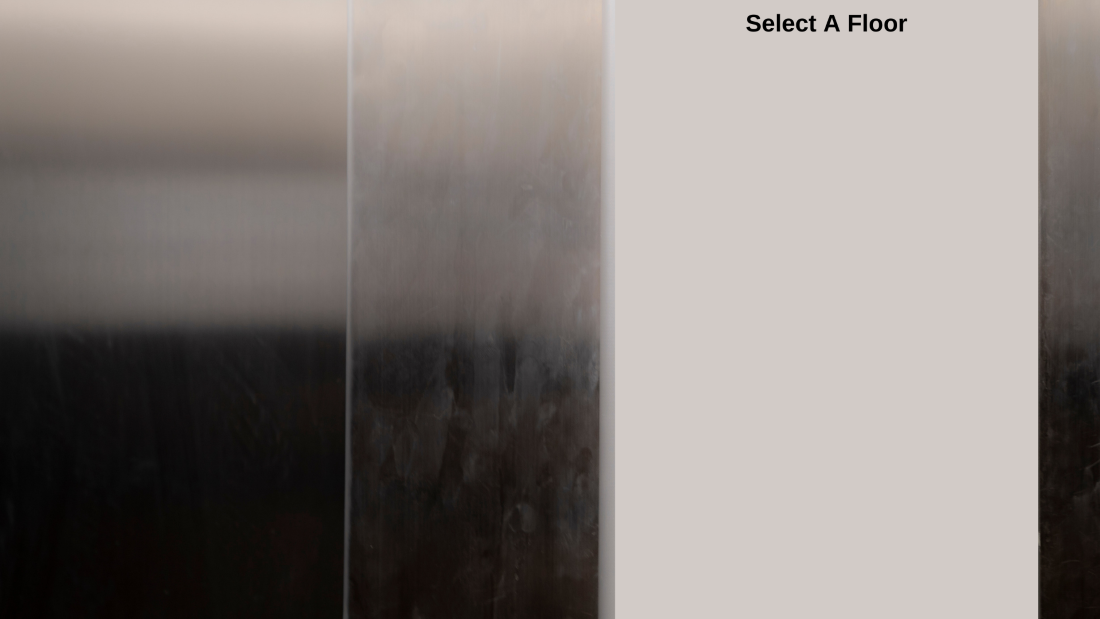
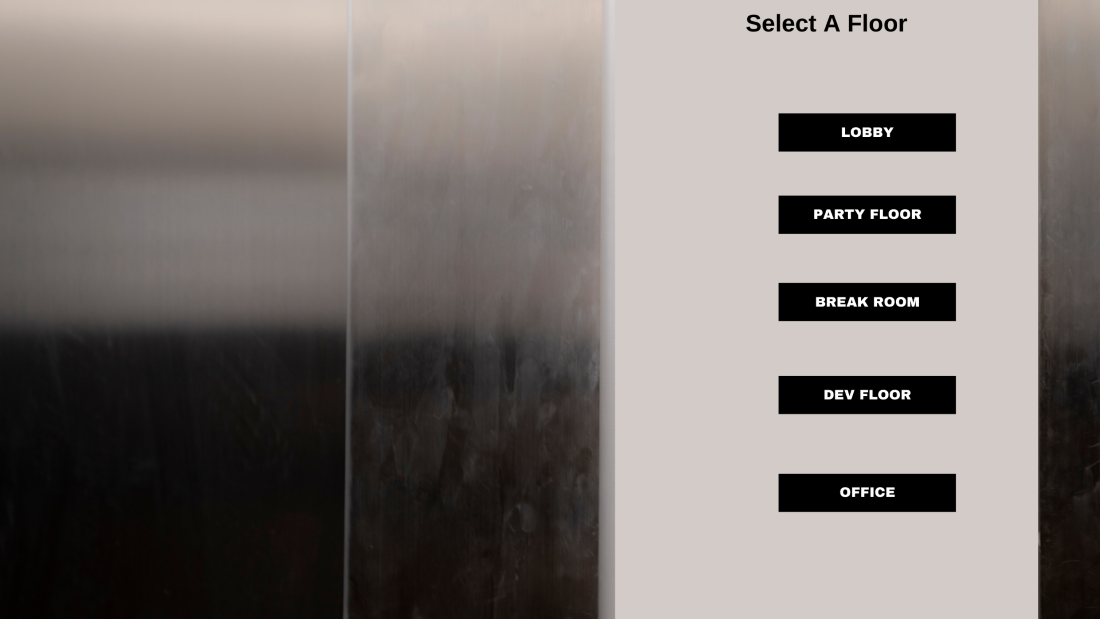
added buttons to each elevator location

diff --git a/src/main/java/com/mandatory_overtime/view/LocationGUIPanel.java b/src/main/java/com/mandatory_overtime/view/LocationGUIPanel.java
@@ -3,7 +3,9 @@ package com.mandatory_overtime.view;
 import com.mandatory_overtime.model.Room;
 import java.io.IOException;
 import java.io.InputStream;
+import java.util.ArrayList;
 import java.util.HashMap;
+import java.util.List;
 import java.util.Map;
 import java.util.Map.Entry;
 import javax.imageio.ImageIO;
@@ -16,16 +18,17 @@ public class LocationGUIPanel {
 
     private Map<String, JLayeredPane> locationsGuiPanels;
 
-    private JButton elevatorBtn_1;
-    private JButton elevatorBtn_2;
-    private JButton elevatorBtn_3;
-    private JButton elevatorBtn_4;
-    private JButton elevatorBtn_5;
+    private String[] elevatorButtonNames = new String[]{"1","2","3", "4","5"};
+    private String[] elevator_1_ButtonNames = new String[]{"2","3", "4","5"};
+    private String[] elevator_2_ButtonNames = new String[]{"1","3", "4","5"};
+    private String[] elevator_3_ButtonNames = new String[]{"1","2", "4","5"};
+    private String[] elevator_4_ButtonNames = new String[]{"1","2","3","5"};
+    private String[] elevator_5_ButtonNames = new String[]{"1","2","3", "4"};
 
 
     public LocationGUIPanel(Map<String, Room> map) {
         locationsGuiPanels = generateLocationPanels(map);
-        createElevatorButtons();
+
     }
 
     public Map<String, JLayeredPane> getLocationsGuiPanels(){
@@ -58,6 +61,42 @@ public class LocationGUIPanel {
             // save into JSON as x, y coords
 
             // IF THE LOCATION IS Elevator add the elevator buttons
+            switch (locationName){
+                case "elevator":
+                    for(int i =0; i < elevatorButtonNames.length; i++){
+                        pane.add(createButton(elevatorButtonNames[i]));
+                    }
+                    break;
+                case "1":
+                    for(int i =0; i < elevator_1_ButtonNames.length; i++){
+                        pane.add(createButton(elevator_1_ButtonNames[i]));
+                    }
+                    break;
+                case "2":
+                    for(int i =0; i < elevator_2_ButtonNames.length; i++){
+                        pane.add(createButton(elevator_2_ButtonNames[i]));
+                    }
+                    break;
+                case "3":
+                    for(int i =0; i < elevator_3_ButtonNames.length; i++){
+                        pane.add(createButton(elevator_3_ButtonNames[i]));
+                    }
+                    break;
+                case "4":
+                    for(int i =0; i < elevator_4_ButtonNames.length; i++){
+                        pane.add(createButton(elevator_4_ButtonNames[i]));
+                    }
+                    break;
+                case "5":
+                    for(int i =0; i < elevator_5_ButtonNames.length; i++){
+                        pane.add(createButton(elevator_5_ButtonNames[i]));
+                    }
+                    break;
+                default:
+                    break;
+            }
+
+
             pane.add(locationImage);
            // pane.add(inventoryItem);
 
@@ -68,33 +107,77 @@ public class LocationGUIPanel {
         return pane;
     }
 
-    private void createElevatorButtons(){
-
+    private JButton createButton(String buttonSelection){
+         JButton elevatorBtn_1;
+         JButton elevatorBtn_2;
+         JButton elevatorBtn_3;
+         JButton elevatorBtn_4;
+         JButton elevatorBtn_5;
 
         try {
             InputStream img1 = getClass().getResourceAsStream("/images/elevatorBtn1.png");
             ImageIcon elevatorBtn1Image = new ImageIcon(ImageIO.read(img1));
             elevatorBtn_1 = new JButton(elevatorBtn1Image);
+            elevatorBtn_1.setBounds(663,130,80, 80);
+            elevatorBtn_1.setFocusPainted(false);
+            elevatorBtn_1.setContentAreaFilled(false);
+            elevatorBtn_1.setBorder(null);
+            elevatorBtn_1.setToolTipText("Click to go To level 1");
 
             InputStream img2 = getClass().getResourceAsStream("/images/elevatorBtn2.png");
             ImageIcon elevatorBtn2Image = new ImageIcon(ImageIO.read(img2));
-            elevatorBtn_1 = new JButton(elevatorBtn1Image);
+            elevatorBtn_2 = new JButton(elevatorBtn2Image);
+            elevatorBtn_2.setBounds(663,215,80, 80);
+            elevatorBtn_2.setFocusPainted(false);
+            elevatorBtn_2.setContentAreaFilled(false);
+            elevatorBtn_2.setBorder(null);
+            elevatorBtn_2.setToolTipText("Click to go To level 2");
 
             InputStream img3 = getClass().getResourceAsStream("/images/elevatorBtn3.png");
             ImageIcon elevatorBtn3Image = new ImageIcon(ImageIO.read(img3));
-            elevatorBtn_1 = new JButton(elevatorBtn1Image);
+            elevatorBtn_3 = new JButton(elevatorBtn3Image);
+            elevatorBtn_3.setBounds(663,300,80, 80);
+            elevatorBtn_3.setFocusPainted(false);
+            elevatorBtn_3.setContentAreaFilled(false);
+            elevatorBtn_3.setBorder(null);
+            elevatorBtn_3.setToolTipText("Click to go To level 3");
 
             InputStream img4 = getClass().getResourceAsStream("/images/elevatorBtn4.png");
             ImageIcon elevatorBtn4Image = new ImageIcon(ImageIO.read(img4));
-            elevatorBtn_1 = new JButton(elevatorBtn1Image);
+            elevatorBtn_4 = new JButton(elevatorBtn4Image);
+            elevatorBtn_4.setBounds(663,385,80, 80);
+            elevatorBtn_4.setFocusPainted(false);
+            elevatorBtn_4.setContentAreaFilled(false);
+            elevatorBtn_4.setBorder(null);
+            elevatorBtn_4.setToolTipText("Click to go To level 4");
 
             InputStream img5 = getClass().getResourceAsStream("/images/elevatorBtn5.png");
             ImageIcon elevatorBtn5Image = new ImageIcon(ImageIO.read(img5));
-            elevatorBtn_1 = new JButton(elevatorBtn1Image);
+            elevatorBtn_5 = new JButton(elevatorBtn5Image);
+            elevatorBtn_5.setBounds(663,480,80, 80);
+            elevatorBtn_5.setFocusPainted(false);
+            elevatorBtn_5.setContentAreaFilled(false);
+            elevatorBtn_5.setBorder(null);
+            elevatorBtn_5.setToolTipText("Click to go To level 5");
+
+            switch(buttonSelection){
+                case "1":
+                    return elevatorBtn_1;
+                case "2":
+                    return elevatorBtn_2;
+                case "3":
+                    return elevatorBtn_3;
+                case "4":
+                    return elevatorBtn_4;
+                case "5":
+                    return elevatorBtn_5;
+            }
 
         } catch (IOException e) {
             throw new RuntimeException(e);
         }
+
+        return new JButton();
     }
 
 

diff --git a/src/main/java/com/mandatory_overtime/controller/GUIController.java b/src/main/java/com/mandatory_overtime/controller/GUIController.java
@@ -47,7 +47,7 @@ public class GUIController {
 
     public void startGame(){
         //String currentLocation = player.getCurrentLocation();
-        String currentLocation = "lobby";
+        String currentLocation = "3";
         String[] directions = building.getBuilding().get(currentLocation).getDirections();
         System.out.println(Arrays.toString(directions));
         String message = "Whatever feedback we get from building methods";
